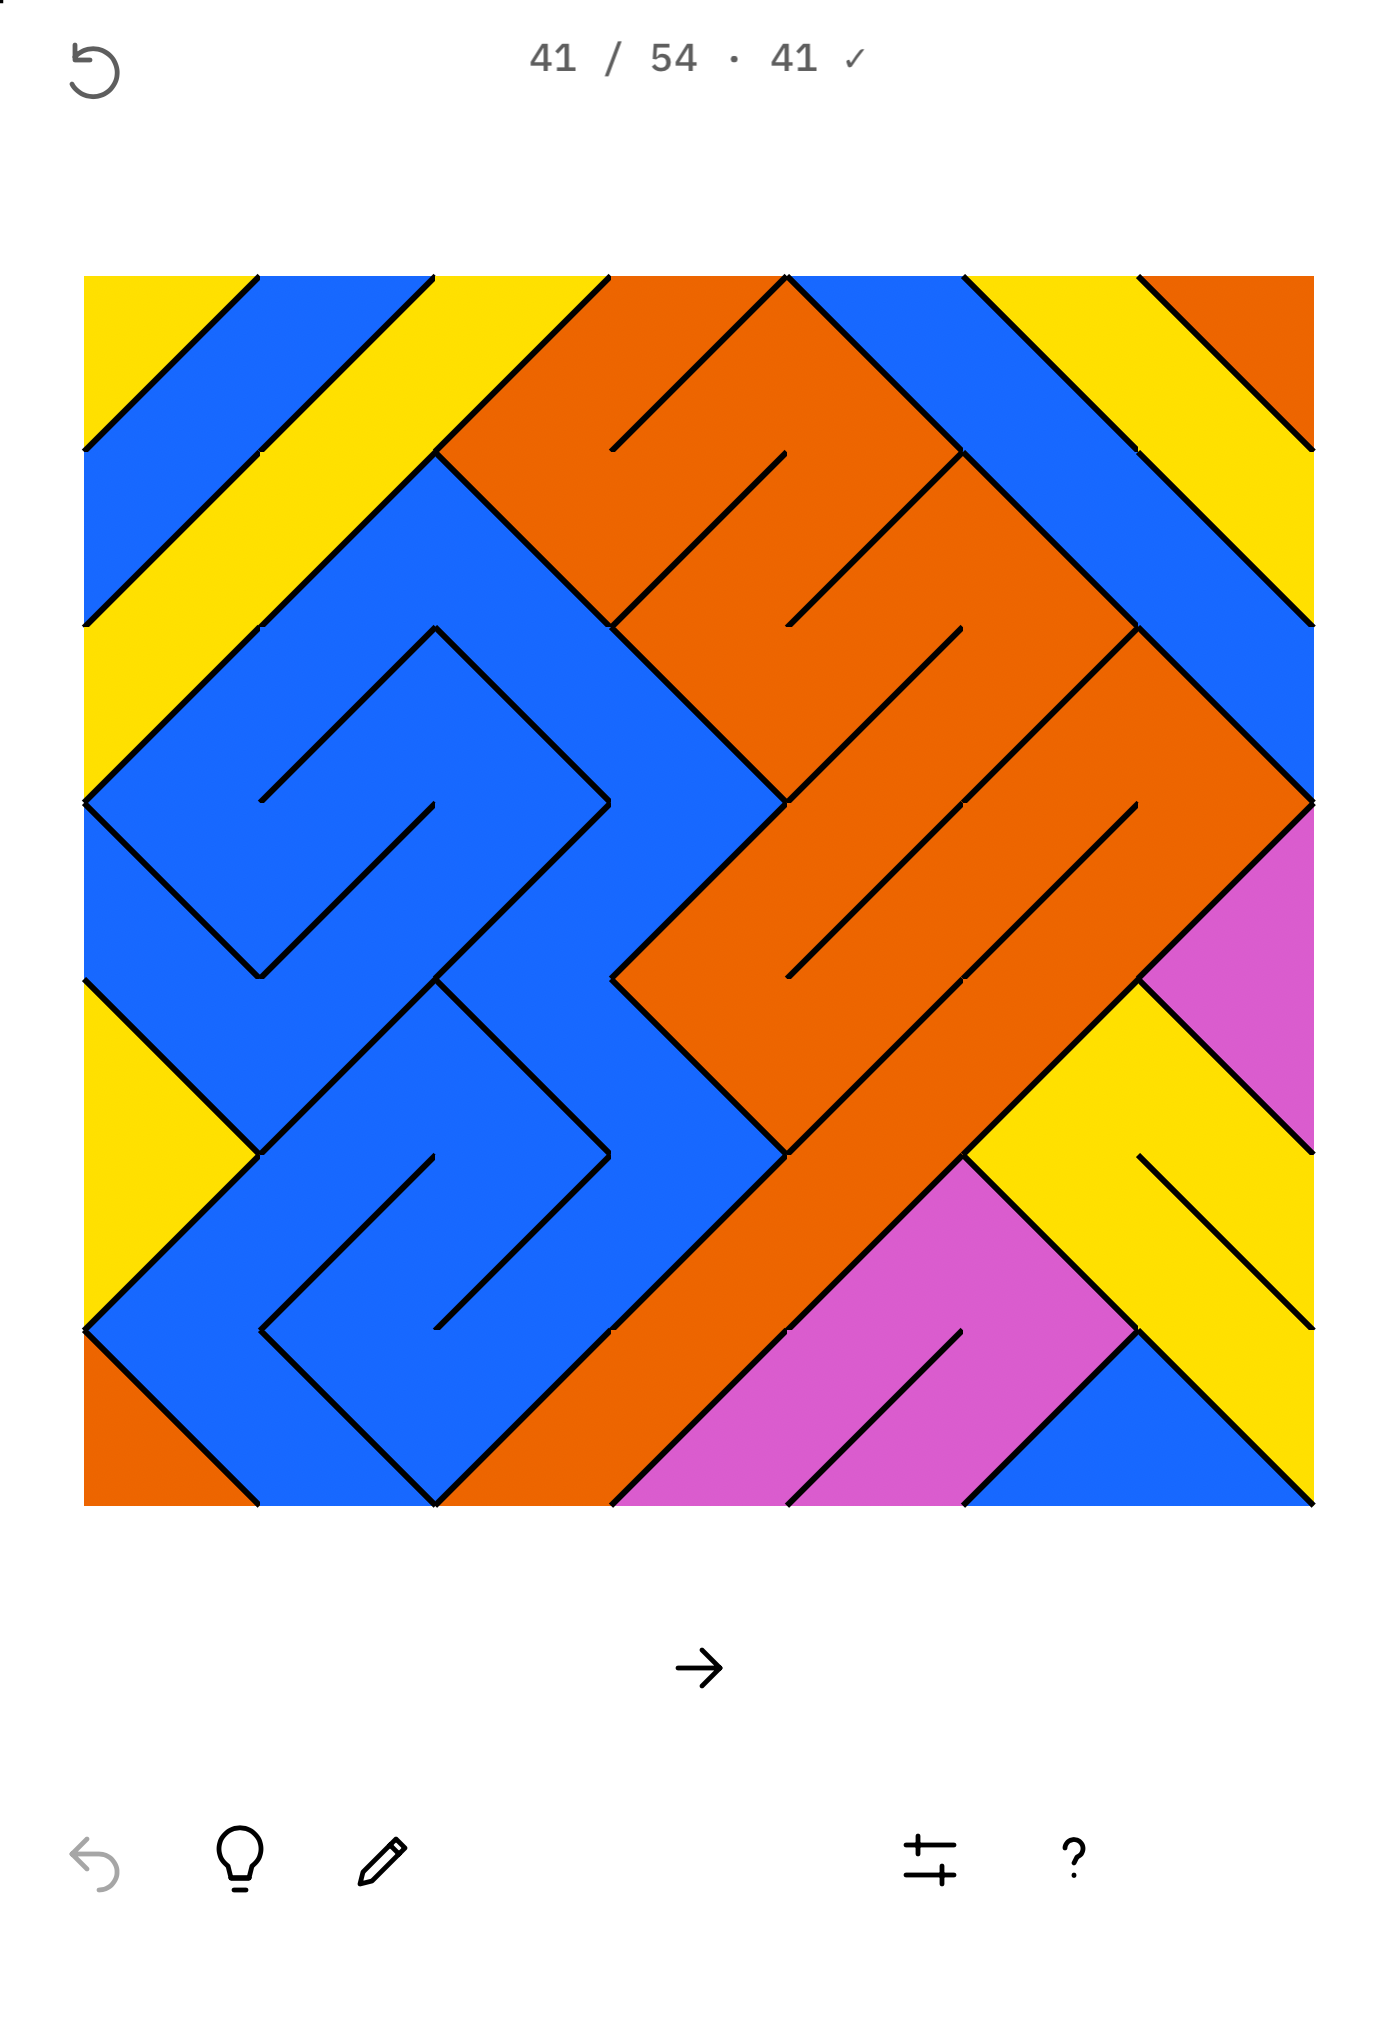
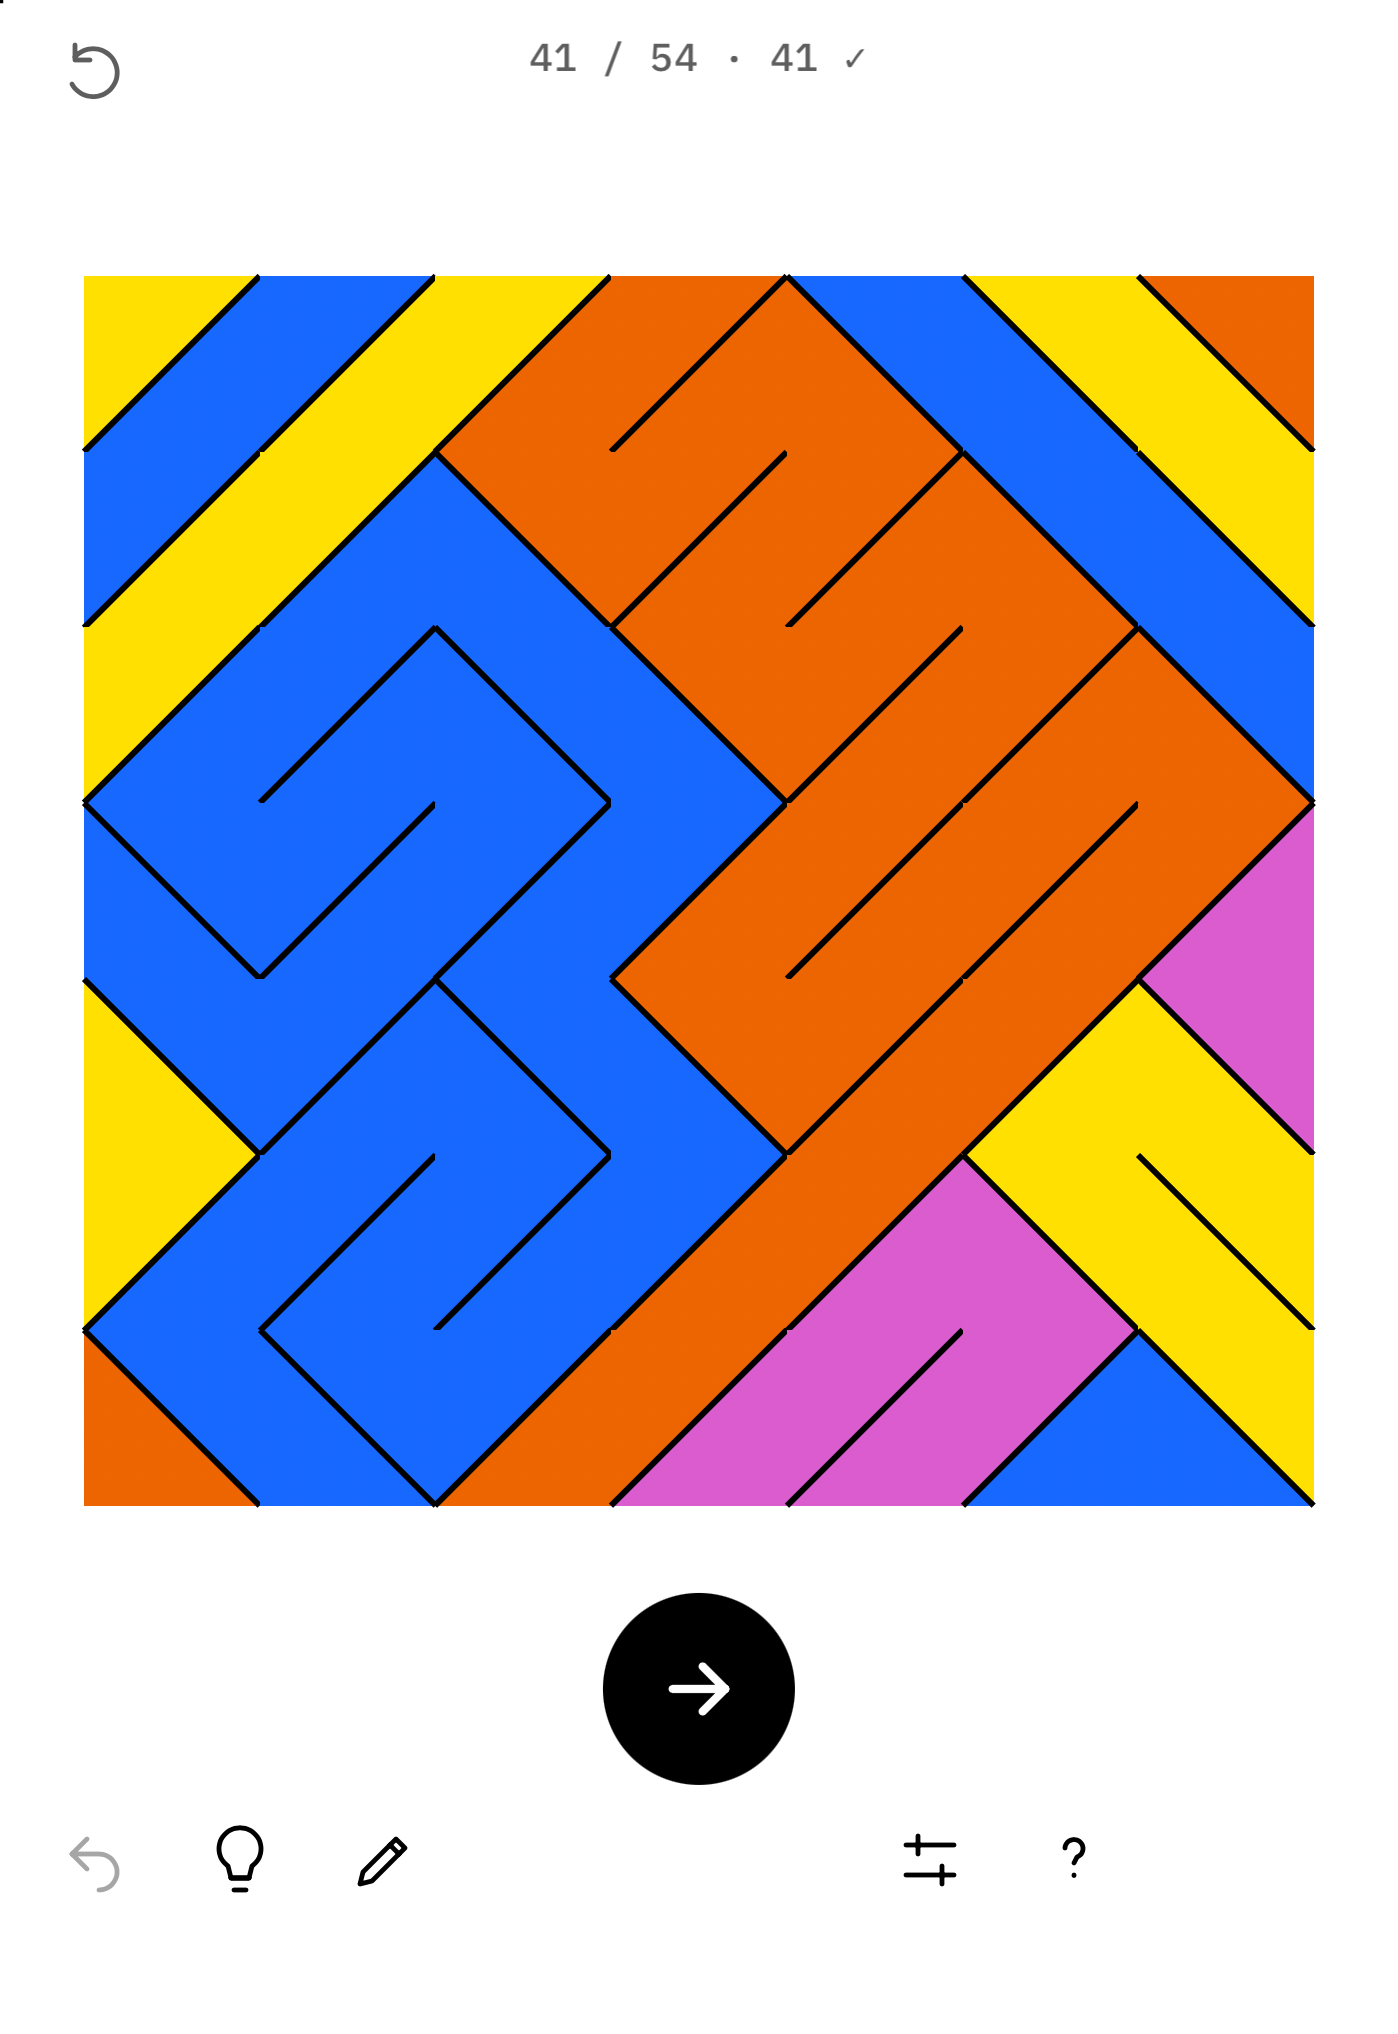
Simulator check of 1.0.1 on the folded Duo; new solved shot with the continue disc

Changed region(s): [[0.4306, 0.7743, 0.5844, 0.8982]]

diff --git a/app/docs/RELEASE.md b/app/docs/RELEASE.md
@@ -145,11 +145,22 @@ Checked on napoleon 2026-11-18, side by side with the web copy and Minimal
 WebKit): the Settings sheet lists the same headings, rows and footer in all
 three except Minimal's own (Collection scores, no Share, All games to its
 library); the continue disc is the same 64 px disc at the same spot; Help is
-the same; no page errors. `pnpm smoke` green. **Not run yet** (napoleon was
-short on memory, and io and Beast cannot build iOS): a simulator or phone
-build, the Duo poses, and the "links open the system browser" row in
-DEVICE_VERIFY.md (Settings now has the All games and lukesteuber.com footer
-in Settings too, not only in Help).
+the same; no page errors. `pnpm smoke` green.
+
+Simulator, 2026-11-18 (napoleon, Xcode 27.2, iOS 27.2 iPhone Duo sim
+"Slant Duo 20261114", folded outer screen): Debug build, `scripts/capture-shots.sh … outer`
+scenes solved, in progress and how to play all accepted; the solved scene shows
+the new continue disc. `simctl launch --console-pty` printed `WebView
+loaded`, no UIScene line and no errors, and the page logged its Duo fold bridge as wired (`SlantCheck duoFold=true duoHandler=true`). The other outer shots are
+pixel-identical to 1.0's; `iphone-duo-outer/02-solved.png` was replaced
+with the new disc. On the folded screen the toolbar stops short of the
+trailing edge: that is iOS's status-bar column beside the camera, and 1.0
+did the same. External links: no `allowNavigation` is set, so Capacitor
+opens any outside host in Safari (iOS `WebViewDelegationHandler`) or the
+browser (Android `Bridge.launchIntent`, `ACTION_VIEW`); read in the
+Capacitor 8.5.3 source, not tapped. **Not run:** the unfolded Duo poses
+(folding needs a click in Device Hub), an Android emulator (the Android
+WebView is the Chromium checked above), a phone.
 
 What's New, **draft for Luke's approval** (then into
 `app-store/metadata/en-US/release_notes.txt` and the Play release notes):
@@ -159,5 +170,5 @@ What's New, **draft for Luke's approval** (then into
 > the next board, and the board fills the whole screen on iPhone Duo.
 
 Still owed before signing: a sign script pinned to the merged commit (copy
-`~/workspace/play-builds-20261112/sign/slant-1.0.0-1.sh`), then the device
-checks above.
+`~/workspace/play-builds-20261112/sign/slant-1.0.0-1.sh`), then the unfolded Duo
+poses and a phone run.
